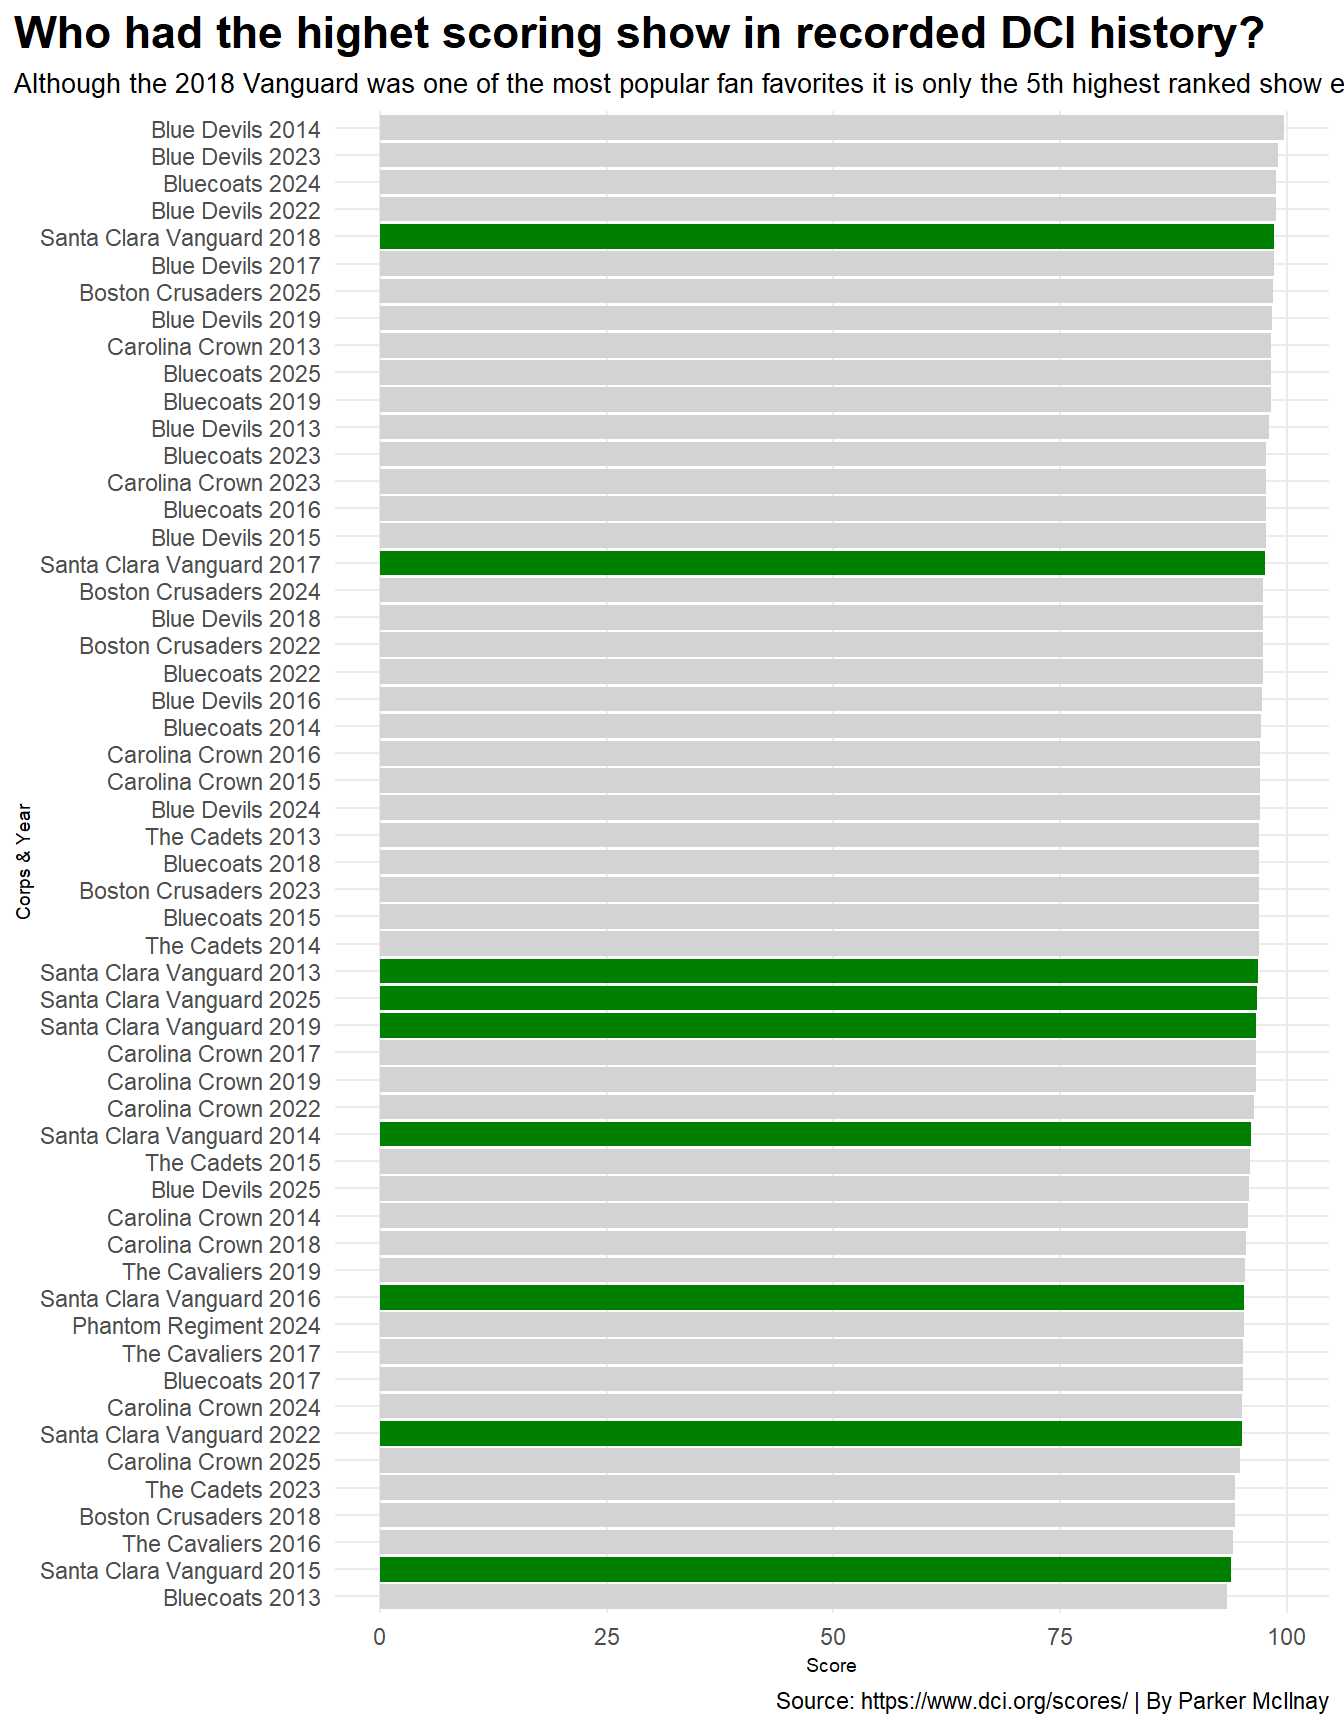
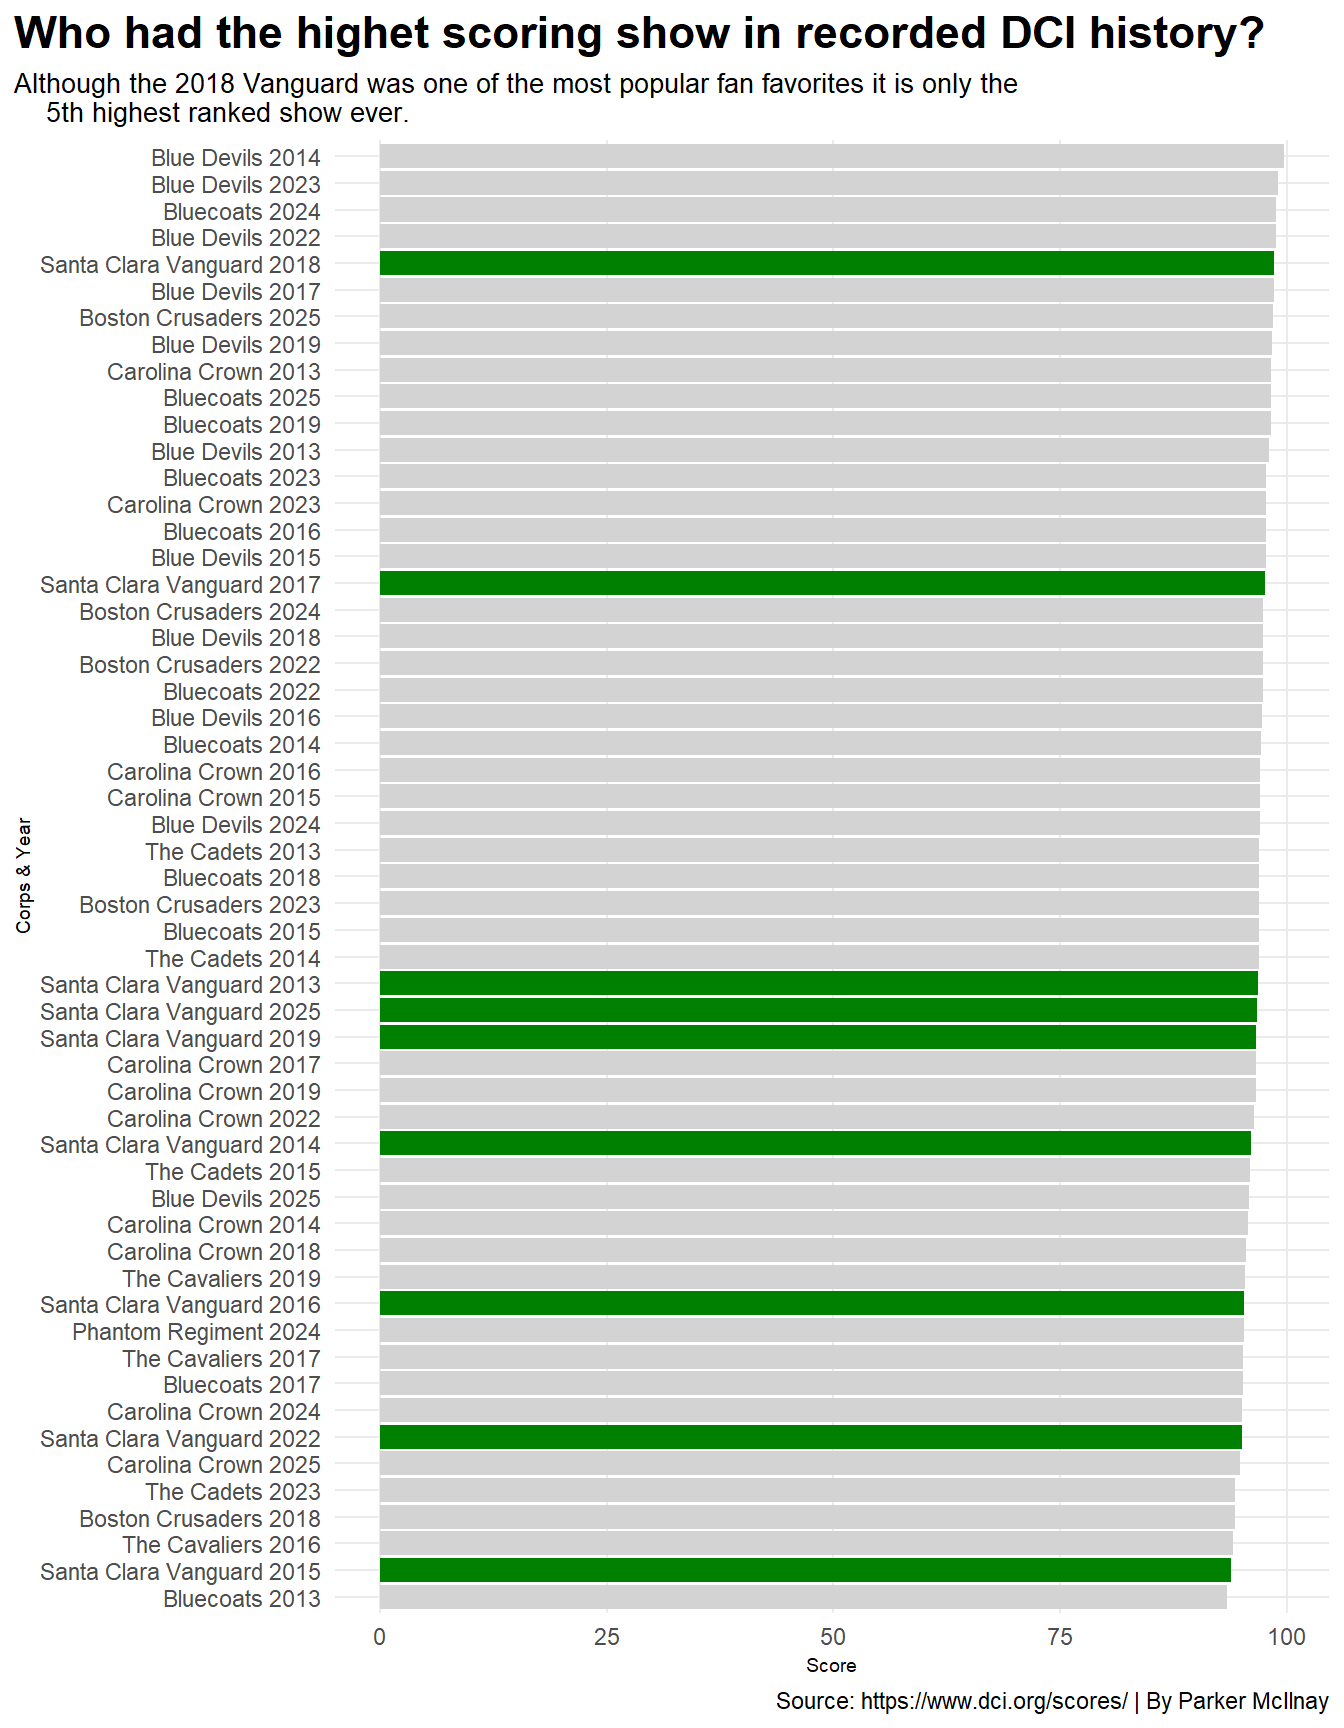
final 2

diff --git a/posts/santa-clara-vanguard-2018-dominant/index.html b/posts/santa-clara-vanguard-2018-dominant/index.html
@@ -184,7 +184,7 @@ pre > code.sourceCode > span > a:first-child::before { text-decoration: underlin
 
 
 
-<p>hjgjhgjhgjh</p>
+<p>Was the 2018 Santa Clara Vanguard show, Babalon, the most dominant show in the recent history of DCI? The short answer is no. The 2018 show was by far a fan favorite, and everyone knew who was going to win that year, but it was not very far ahead of 2nd place. I’m going to walk you through why it was not the most dominant show or even the highest-rated show in recorded history. Looking at this first chart, you can see that the Santa Clara Vanguard has never won except for 2018, so they had to have been doing something right that year, right?</p>
 <div class="cell">
 <details class="code-fold">
 <summary>Code</summary>
@@ -250,7 +250,7 @@ pre > code.sourceCode > span > a:first-child::before { text-decoration: underlin
 </div>
 </div>
 </div>
-<p>jhjggjhgjhgjh</p>
+<p>Yes, they did have a very good show, and even early on in the season, people knew that they would sweep at the finals. They had to take down the reigning two-time champs, The Blue Devils, to win it, and they won by a good margin, winning by 1.275pts. In the marching world, it is very common for the pts margin to be within a few tenths of a point, so the fact that they were able to defeat the reigning champ by over a point says a lot about that year’s show. With it being a very dominant show of that year, is it the highest-scoring show ever? Again, no, it wasn’t. That title goes to the 2014 Blue Devils. You can see here in the second chart that they scored a whopping 99.8pts.</p>
 <div class="cell">
 <details class="code-fold">
 <summary>Code</summary>
@@ -267,17 +267,18 @@ pre > code.sourceCode > span > a:first-child::before { text-decoration: underlin
 <span id="cb2-11"><a href="#cb2-11" aria-hidden="true" tabindex="-1"></a>    <span class="at">x=</span><span class="st">"Corps &amp; Year"</span>, </span>
 <span id="cb2-12"><a href="#cb2-12" aria-hidden="true" tabindex="-1"></a>    <span class="at">y=</span><span class="st">"Score"</span>, </span>
 <span id="cb2-13"><a href="#cb2-13" aria-hidden="true" tabindex="-1"></a>    <span class="at">title=</span><span class="st">"Who had the highet scoring show in recorded DCI history?"</span>, </span>
-<span id="cb2-14"><a href="#cb2-14" aria-hidden="true" tabindex="-1"></a>    <span class="at">subtitle=</span><span class="st">"Although the 2018 Vanguard was one of the most popular fan favorites it is only the 5th highest ranked show ever."</span>, </span>
-<span id="cb2-15"><a href="#cb2-15" aria-hidden="true" tabindex="-1"></a>    <span class="at">caption=</span><span class="st">"Source: https://www.dci.org/scores/ | By Parker McIlnay"</span></span>
-<span id="cb2-16"><a href="#cb2-16" aria-hidden="true" tabindex="-1"></a>    ) <span class="sc">+</span></span>
-<span id="cb2-17"><a href="#cb2-17" aria-hidden="true" tabindex="-1"></a>  <span class="fu">theme_minimal</span>() <span class="sc">+</span> </span>
-<span id="cb2-18"><a href="#cb2-18" aria-hidden="true" tabindex="-1"></a>  <span class="fu">theme</span>(</span>
-<span id="cb2-19"><a href="#cb2-19" aria-hidden="true" tabindex="-1"></a>    <span class="at">plot.title =</span> <span class="fu">element_text</span>(<span class="at">size =</span> <span class="dv">17</span>, <span class="at">face =</span> <span class="st">"bold"</span>),</span>
-<span id="cb2-20"><a href="#cb2-20" aria-hidden="true" tabindex="-1"></a>    <span class="at">axis.title =</span> <span class="fu">element_text</span>(<span class="at">size =</span> <span class="dv">7</span>), </span>
-<span id="cb2-21"><a href="#cb2-21" aria-hidden="true" tabindex="-1"></a>    <span class="at">plot.subtitle =</span> <span class="fu">element_text</span>(<span class="at">size=</span><span class="dv">10</span>), </span>
-<span id="cb2-22"><a href="#cb2-22" aria-hidden="true" tabindex="-1"></a>    <span class="at">panel.grid.minor =</span> <span class="fu">element_blank</span>(),</span>
-<span id="cb2-23"><a href="#cb2-23" aria-hidden="true" tabindex="-1"></a>    <span class="at">plot.title.position =</span> <span class="st">"plot"</span></span>
-<span id="cb2-24"><a href="#cb2-24" aria-hidden="true" tabindex="-1"></a>    ) </span></code></pre></div><button title="Copy to Clipboard" class="code-copy-button"><i class="bi"></i></button></div>
+<span id="cb2-14"><a href="#cb2-14" aria-hidden="true" tabindex="-1"></a>    <span class="at">subtitle=</span><span class="st">"Although the 2018 Vanguard was one of the most popular fan favorites it is only the </span></span>
+<span id="cb2-15"><a href="#cb2-15" aria-hidden="true" tabindex="-1"></a><span class="st">    5th highest ranked show ever."</span>, </span>
+<span id="cb2-16"><a href="#cb2-16" aria-hidden="true" tabindex="-1"></a>    <span class="at">caption=</span><span class="st">"Source: https://www.dci.org/scores/ | By Parker McIlnay"</span></span>
+<span id="cb2-17"><a href="#cb2-17" aria-hidden="true" tabindex="-1"></a>    ) <span class="sc">+</span></span>
+<span id="cb2-18"><a href="#cb2-18" aria-hidden="true" tabindex="-1"></a>  <span class="fu">theme_minimal</span>() <span class="sc">+</span> </span>
+<span id="cb2-19"><a href="#cb2-19" aria-hidden="true" tabindex="-1"></a>  <span class="fu">theme</span>(</span>
+<span id="cb2-20"><a href="#cb2-20" aria-hidden="true" tabindex="-1"></a>    <span class="at">plot.title =</span> <span class="fu">element_text</span>(<span class="at">size =</span> <span class="dv">17</span>, <span class="at">face =</span> <span class="st">"bold"</span>),</span>
+<span id="cb2-21"><a href="#cb2-21" aria-hidden="true" tabindex="-1"></a>    <span class="at">axis.title =</span> <span class="fu">element_text</span>(<span class="at">size =</span> <span class="dv">7</span>), </span>
+<span id="cb2-22"><a href="#cb2-22" aria-hidden="true" tabindex="-1"></a>    <span class="at">plot.subtitle =</span> <span class="fu">element_text</span>(<span class="at">size=</span><span class="dv">10</span>), </span>
+<span id="cb2-23"><a href="#cb2-23" aria-hidden="true" tabindex="-1"></a>    <span class="at">panel.grid.minor =</span> <span class="fu">element_blank</span>(),</span>
+<span id="cb2-24"><a href="#cb2-24" aria-hidden="true" tabindex="-1"></a>    <span class="at">plot.title.position =</span> <span class="st">"plot"</span></span>
+<span id="cb2-25"><a href="#cb2-25" aria-hidden="true" tabindex="-1"></a>    ) </span></code></pre></div><button title="Copy to Clipboard" class="code-copy-button"><i class="bi"></i></button></div>
 </details>
 <div class="cell-output-display">
 <div>
@@ -287,6 +288,7 @@ pre > code.sourceCode > span > a:first-child::before { text-decoration: underlin
 </div>
 </div>
 </div>
+<p>They were only .2 away from a perfect show, which a perfect show has never happened. I would also like to point out that the margin from the first place show to the second place show is a pretty big margin as well. Why am I showing you this? Well, to show that I am wrong, partially, but I wasn’t that far off from my original idea. Even though this was not the most dominant show ever, it is in the top 5 highest scoring shows, but top scores are not the only thing that shows dominance in DCI. The point margin from first to second place is a very good way, and probably the best way to show how dominant a show was. Looking at this third chart, you can see just how large the margin is from first to second place. While the exact points are not shown, you can see just how large some of the gaps were from gold to silver. While the margin from the 2018 show is very large again, the largest gap from first to second place goes to the 2014 Blue Devils. They managed to win by over 2.5pts, which is insane.</p>
 <div class="cell">
 <details class="code-fold">
 <summary>Code</summary>
@@ -373,7 +375,7 @@ pre > code.sourceCode > span > a:first-child::before { text-decoration: underlin
 </div>
 </div>
 </div>
-<p>oijhiuh</p>
+<pre><code>Even though the 2018 Santa Clara Vanguard is the most popular show and was a huge fan favorite of the year, the data just doesn't support the fact that it was the most dominant show. That title goes to the 2014 Blue Devils. </code></pre>
 
 
 

diff --git a/index.html b/index.html
@@ -185,7 +185,7 @@ window.Quarto = {
 <!-- margin-sidebar -->
     <div id="quarto-margin-sidebar" class="sidebar margin-sidebar">
         
-    <h5 class="quarto-listing-category-title">Categories</h5><div class="quarto-listing-category category-default"><div class="category" data-category="">All <span class="quarto-category-count">(3)</span></div><div class="category" data-category="YW5hbHlzaXM=">analysis <span class="quarto-category-count">(1)</span></div><div class="category" data-category="Y29kZQ==">code <span class="quarto-category-count">(1)</span></div><div class="category" data-category="Y29tcGV0aXRpb24=">competition <span class="quarto-category-count">(1)</span></div><div class="category" data-category="Y3J1bWNvcnA=">crumcorp <span class="quarto-category-count">(1)</span></div><div class="category" data-category="bmV3cw==">news <span class="quarto-category-count">(2)</span></div></div></div>
+    <h5 class="quarto-listing-category-title">Categories</h5><div class="quarto-listing-category category-default"><div class="category" data-category="">All <span class="quarto-category-count">(1)</span></div><div class="category" data-category="Y29tcGV0aXRpb24=">competition <span class="quarto-category-count">(1)</span></div><div class="category" data-category="Y3J1bWNvcnA=">crumcorp <span class="quarto-category-count">(1)</span></div></div></div>
 <!-- main -->
 <main class="content quarto-banner-title-block column-page-left" id="quarto-document-content">
 
@@ -199,7 +199,7 @@ window.Quarto = {
 
 <div class="quarto-listing quarto-listing-container-default" id="listing-listing">
 <div class="list quarto-listing-default">
-<div class="quarto-post image-right" data-index="0" data-categories="Y3J1bWNvcnAlMkNjb21wZXRpdGlvbg==" data-listing-date-sort="1775797200000" data-listing-file-modified-sort="1775766831600" data-listing-date-modified-sort="NaN" data-listing-reading-time-sort="4" data-listing-word-count-sort="799">
+<div class="quarto-post image-right" data-index="0" data-categories="Y3J1bWNvcnAlMkNjb21wZXRpdGlvbg==" data-listing-date-sort="1775797200000" data-listing-file-modified-sort="1775807023402" data-listing-date-modified-sort="NaN" data-listing-reading-time-sort="7" data-listing-word-count-sort="1285">
 <div class="thumbnail"><a href="./posts/santa-clara-vanguard-2018-dominant/index.html" class="no-external">
 
 <img loading="lazy" src="./posts/santa-clara-vanguard-2018-dominant/image.png" class="thumbnail-image">
@@ -217,7 +217,7 @@ window.Quarto = {
 
 </div>
 <div class="delink listing-description"><a href="./posts/santa-clara-vanguard-2018-dominant/index.html" class="no-external">
-hjgjhgjhgjh
+Was the 2018 Santa Clara Vanguard show, Babalon, the most dominant show in the recent history of DCI? The short answer is no. The 2018 show was by far a fan favorite, and…
 </a></div>
 </div>
 <div class="metadata">
@@ -227,70 +227,6 @@ Apr 10, 2026
 </div>
 <div class="listing-author">
 Parker McIlnay
-</div>
-</a>
-</div>
-</div>
-<div class="quarto-post image-right" data-index="1" data-categories="bmV3cyUyQ2NvZGUlMkNhbmFseXNpcw==" data-listing-date-sort="1774846800000" data-listing-file-modified-sort="1774896427403" data-listing-date-modified-sort="NaN" data-listing-reading-time-sort="1" data-listing-word-count-sort="9">
-<div class="thumbnail"><a href="./posts/post-with-code/index.html" class="no-external">
-
-<img loading="lazy" src="./posts/post-with-code/image.jpg" class="thumbnail-image">
-
-</a></div>
-<div class="body">
-<h3 class="no-anchor listing-title">
-<a href="./posts/post-with-code/index.html" class="no-external">Post With Code</a>
-</h3>
-<div class="listing-categories">
-
-<div class="listing-category" onclick="window.quartoListingCategory('bmV3cw=='); return false;">news</div>
-
-<div class="listing-category" onclick="window.quartoListingCategory('Y29kZQ=='); return false;">code</div>
-
-<div class="listing-category" onclick="window.quartoListingCategory('YW5hbHlzaXM='); return false;">analysis</div>
-
-</div>
-<div class="delink listing-description"><a href="./posts/post-with-code/index.html" class="no-external">
-This is a post with executable code.
-</a></div>
-</div>
-<div class="metadata">
-<a href="./posts/post-with-code/index.html" class="no-external">
-<div class="listing-date">
-Mar 30, 2026
-</div>
-<div class="listing-author">
-Harlow Malloc
-</div>
-</a>
-</div>
-</div>
-<div class="quarto-post image-right" data-index="2" data-categories="bmV3cw==" data-listing-date-sort="1774587600000" data-listing-file-modified-sort="1774896427395" data-listing-date-modified-sort="NaN" data-listing-reading-time-sort="1" data-listing-word-count-sort="32">
-<div class="thumbnail"><a href="./posts/welcome/index.html" class="no-external">
-
-<p class="card-img-top"><img loading='lazy' src="posts\welcome\thumbnail.jpg"  class="thumbnail-image card-img"/></p>
-
-</a></div>
-<div class="body">
-<h3 class="no-anchor listing-title">
-<a href="./posts/welcome/index.html" class="no-external">Welcome To My Blog</a>
-</h3>
-<div class="listing-categories">
-
-<div class="listing-category" onclick="window.quartoListingCategory('bmV3cw=='); return false;">news</div>
-
-</div>
-<div class="delink listing-description"><a href="./posts/welcome/index.html" class="no-external">
-This is the first post in a Quarto blog. Welcome!
-</a></div>
-</div>
-<div class="metadata">
-<a href="./posts/welcome/index.html" class="no-external">
-<div class="listing-date">
-Mar 27, 2026
-</div>
-<div class="listing-author">
-Tristan O’Malley
 </div>
 </a>
 </div>
